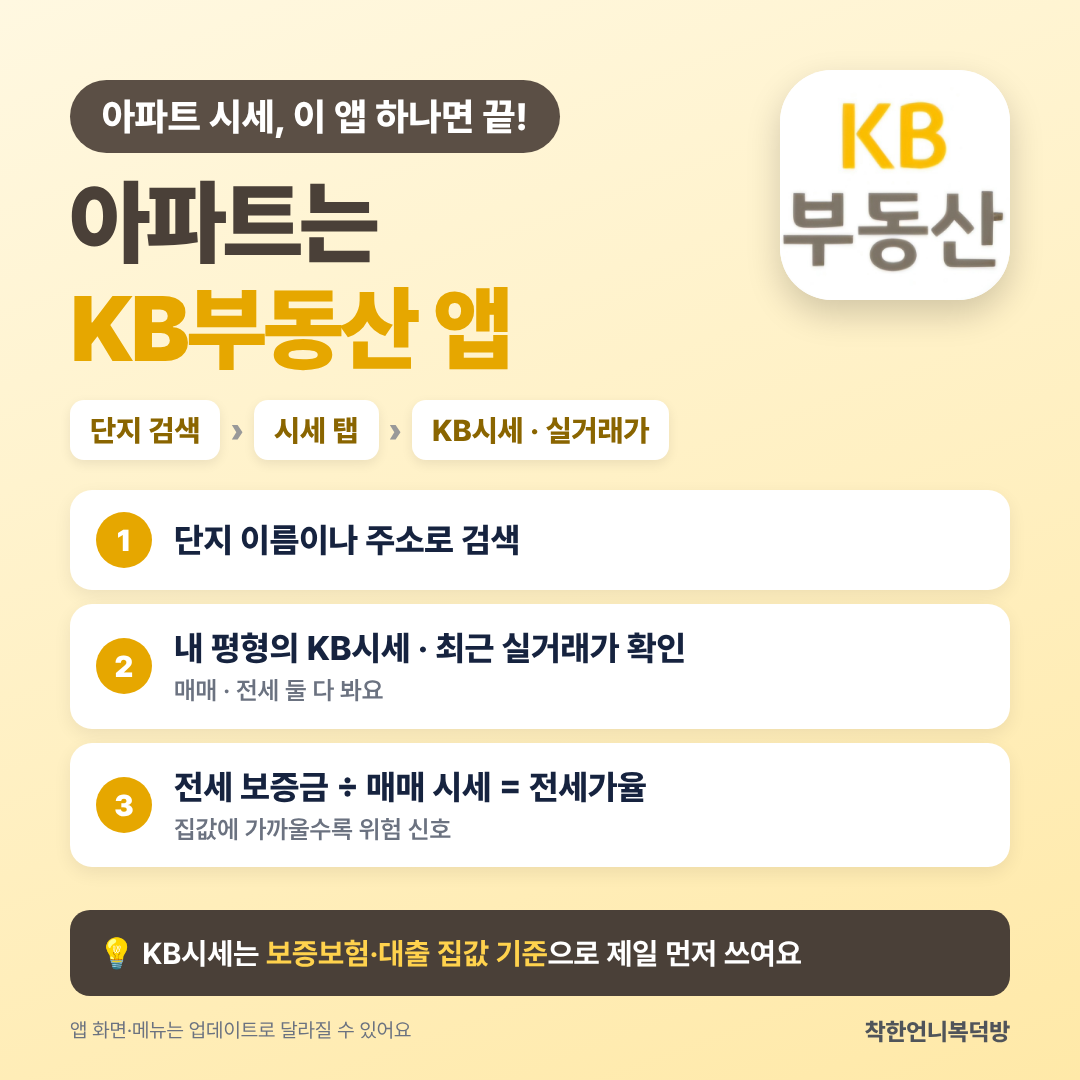
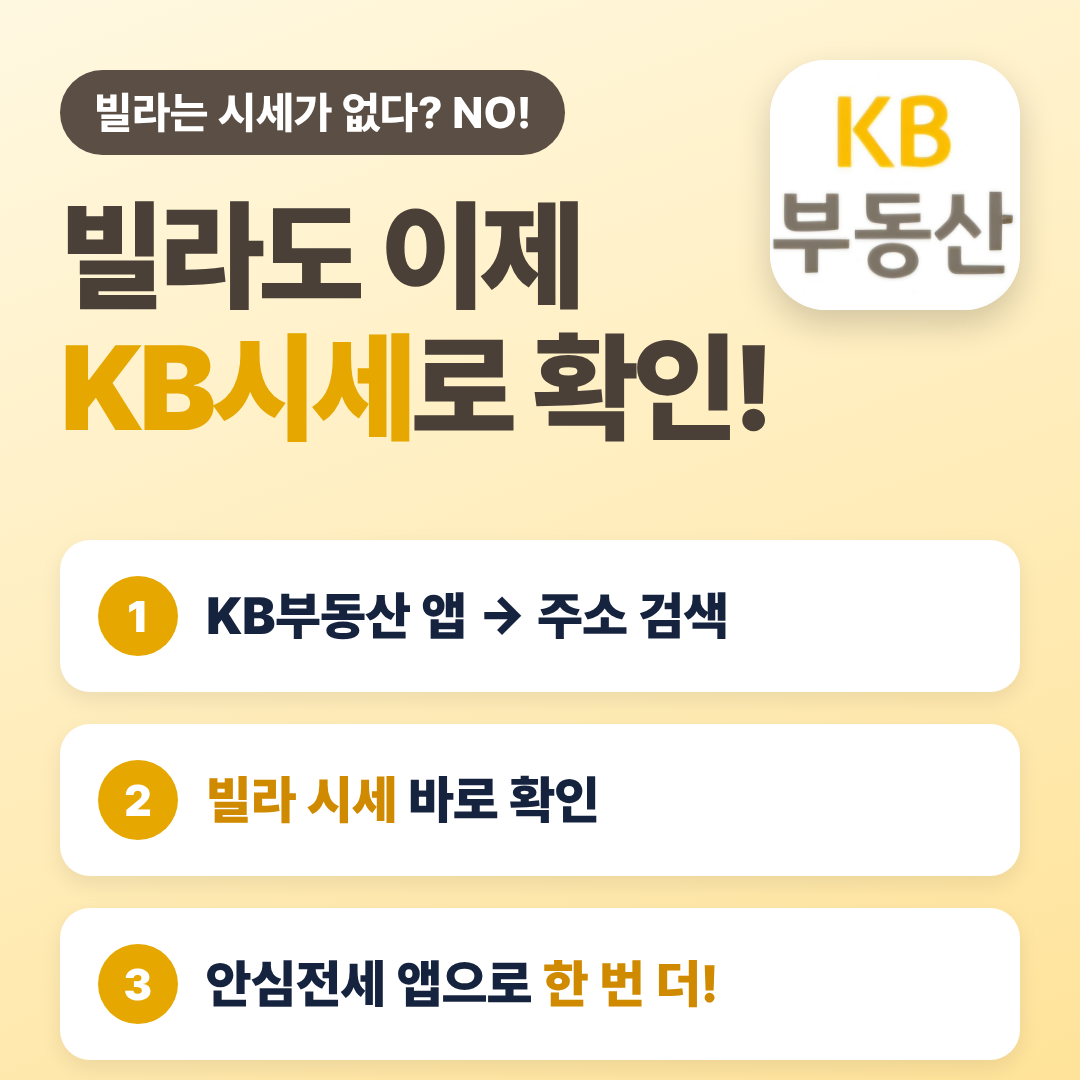
G5 앱 안내: 빌라 KB시세 문구 · 큰 글씨만
Claude-Session: https://claude.ai/code/session_01TVq9M4GpnT2XRseWGn9WC1

diff --git a/instagram/reels/inserts-2026-11-24/photos/G5-info-앱-make.html b/instagram/reels/inserts-2026-11-24/photos/G5-info-앱-make.html
@@ -1,56 +1,38 @@
 <html><head><meta charset="utf-8"><link href="https://cdn.jsdelivr.net/gh/orioncactus/pretendard@v1.3.9/dist/web/static/pretendard.min.css" rel="stylesheet"><style>
 *{margin:0;padding:0;box-sizing:border-box}body{font-family:Pretendard;word-break:keep-all;background:#888}
-.c{width:1080px;height:1080px;position:relative;overflow:hidden;color:#16233f;margin-bottom:10px}
-.kb{background:linear-gradient(160deg,#fff8e1,#ffe9a8)}.hug{background:linear-gradient(160deg,#e3f3ff,#bfe3ff)}
-.icon{position:absolute;right:70px;top:70px;width:230px;height:230px;border-radius:52px;overflow:hidden;box-shadow:0 14px 34px rgba(0,0,0,.18);background:#fff}
+.c{width:1080px;height:1080px;position:relative;overflow:hidden;margin-bottom:10px}
+.kb{background:linear-gradient(160deg,#fff8e1,#ffe39a);color:#4a4038}.hug{background:linear-gradient(160deg,#e3f3ff,#bfe3ff);color:#103e79}
+.icon{position:absolute;right:60px;top:60px;width:250px;height:250px;border-radius:56px;overflow:hidden;box-shadow:0 14px 34px rgba(0,0,0,.18);background:#fff}
 .icon img{width:124%;height:124%;margin:-12%;object-fit:cover}
-.pill{position:absolute;left:70px;top:80px;color:#fff;font-weight:800;font-size:38px;padding:14px 32px;border-radius:50px}
+.pill{position:absolute;left:60px;top:70px;color:#fff;font-weight:800;font-size:44px;padding:16px 34px;border-radius:60px}
 .kb .pill{background:#5b4f45}.hug .pill{background:#103e79}
-h1{position:absolute;left:70px;top:170px;font-size:92px;font-weight:900;line-height:1.15;letter-spacing:-3px}
-.kb h1{color:#4a4038}.hug h1{color:#103e79}
+h1{position:absolute;left:60px;top:190px;font-size:120px;font-weight:900;line-height:1.1;letter-spacing:-4px}
 h1 em{font-style:normal}.kb h1 em{color:#e6a700}.hug h1 em{color:#1d7fd6}
-.path{position:absolute;left:70px;top:400px;display:flex;flex-wrap:wrap;gap:10px;align-items:center;right:70px}
-.chip{background:#fff;font-weight:800;font-size:30px;padding:12px 20px;border-radius:14px;box-shadow:0 4px 12px rgba(0,0,0,.08)}
-.kb .chip{color:#8a6500}.hug .chip{color:#0f5fa8}
-.arr{font-size:34px;font-weight:900;color:#999}
-.steps{position:absolute;left:70px;right:70px;top:490px;display:flex;flex-direction:column;gap:14px}
-.st{background:#fff;border-radius:22px;padding:22px 26px;display:flex;gap:22px;align-items:center;box-shadow:0 6px 18px rgba(0,0,0,.07)}
-.st i{flex:none;font-style:normal;width:56px;height:56px;border-radius:50%;color:#fff;font-weight:900;font-size:30px;display:flex;align-items:center;justify-content:center}
+.steps{position:absolute;left:60px;right:60px;top:540px;display:flex;flex-direction:column;gap:32px}
+.st{background:#fff;border-radius:30px;padding:36px 38px;display:flex;gap:28px;align-items:center;box-shadow:0 8px 22px rgba(0,0,0,.08)}
+.st i{flex:none;font-style:normal;width:80px;height:80px;border-radius:50%;color:#fff;font-weight:900;font-size:44px;display:flex;align-items:center;justify-content:center}
 .kb .st i{background:#e6a700}.hug .st i{background:#1d7fd6}
-.st b{font-size:34px;font-weight:800;line-height:1.3}.st b small{display:block;font-size:25px;font-weight:600;color:#6b7280;margin-top:4px}
-.tip{position:absolute;left:70px;right:70px;bottom:84px;border-radius:20px;padding:22px 28px;font-size:30px;font-weight:700;line-height:1.4}
-.kb .tip{background:#4a4038;color:#fff}.kb .tip em{color:#ffd24d;font-style:normal}
-.hug .tip{background:#103e79;color:#fff}.hug .tip em{color:#ffd84d;font-style:normal}
-.brand{position:absolute;right:70px;bottom:34px;font-size:24px;font-weight:800;opacity:.75}
-.note{position:absolute;left:70px;bottom:38px;font-size:20px;color:#6b7280}
+.st b{font-size:52px;font-weight:900;line-height:1.2;color:#16233f}
+.st b em{font-style:normal}.kb .st b em{color:#d08a00}.hug .st b em{color:#e2560c}
 </style></head><body>
 <div class="c kb" id="kb">
-<div class="pill">아파트 시세, 이 앱 하나면 끝!</div>
+<div class="pill">빌라는 시세가 없다? NO!</div>
 <div class="icon"><img src="app-icon-kb.jpg"></div>
-<h1>아파트는<br><em>KB부동산 앱</em></h1>
-<div class="path"><span class="chip">단지 검색</span><span class="arr">›</span><span class="chip">시세 탭</span><span class="arr">›</span><span class="chip">KB시세 · 실거래가</span></div>
+<h1>빌라도 이제<br><em>KB시세</em>로 확인!</h1>
 <div class="steps">
-<div class="st"><i>1</i><b>단지 이름이나 주소로 검색</b></div>
-<div class="st"><i>2</i><b>내 평형의 KB시세 · 최근 실거래가 확인<small>매매 · 전세 둘 다 봐요</small></b></div>
-<div class="st"><i>3</i><b>전세 보증금 ÷ 매매 시세 = 전세가율<small>집값에 가까울수록 위험 신호</small></b></div>
+<div class="st"><i>1</i><b>KB부동산 앱 → 주소 검색</b></div>
+<div class="st"><i>2</i><b><em>빌라 시세</em> 바로 확인</b></div>
+<div class="st"><i>3</i><b>안심전세 앱으로 <em>한 번 더!</em></b></div>
 </div>
-<div class="tip">💡 KB시세는 <em>보증보험·대출 집값 기준</em>으로 제일 먼저 쓰여요</div>
-<div class="note">앱 화면·메뉴는 업데이트로 달라질 수 있어요</div>
-<div class="brand">착한언니복덕방</div>
 </div>
-
 <div class="c hug" id="hug">
-<div class="pill">KB시세 없는 빌라·오피스텔이라면?</div>
+<div class="pill">KB시세 보고 한 번 더!</div>
 <div class="icon"><img src="app-icon-hug.jpg"></div>
-<h1>빌라는<br><em>안심전세 앱</em></h1>
-<div class="path"><span class="chip">계약 전</span><span class="arr">›</span><span class="chip">시세조회&위험성진단</span><span class="arr">›</span><span class="chip">개별시세</span></div>
+<h1>안심전세 앱<br><em>위험성 진단</em></h1>
 <div class="steps">
-<div class="st"><i>1</i><b>지도에서 집 선택<small>없으면 주소로 검색</small></b></div>
-<div class="st"><i>2</i><b>입주일 · 전세 보증금 넣고 위험성 진단</b></div>
-<div class="st"><i>3</i><b>내 보증금 vs 경매 낙찰 예상금액 비교<small>보증금이 더 높으면 위험 신호</small></b></div>
+<div class="st"><i>1</i><b>시세조회&위험성진단</b></div>
+<div class="st"><i>2</i><b>내 전세 보증금 입력</b></div>
+<div class="st"><i>3</i><b><em>경매 예상가</em>보다 높으면 위험!</b></div>
 </div>
-<div class="tip">💡 같은 앱 <em>안심 조회</em>에서 집주인 보증사고 이력도 조회돼요</div>
-<div class="note">HUG 주택도시보증공사 앱 · 메뉴는 바뀔 수 있어요</div>
-<div class="brand">착한언니복덕방</div>
 </div>
 </body></html>

diff --git a/instagram/reels/inserts-2026-11-24/photos/README.md b/instagram/reels/inserts-2026-11-24/photos/README.md
@@ -18,7 +18,7 @@
 - G5-banner-평일전입신고-가로.jpg: 고수 5번 평일 전입신고·대항력 다음 날 0시 · 새 캐릭터(40대 여성·코랄 블라우스) · AI · 위 알약 문구는 「주말에 하면 처리가 늦어져요!」로 직접 고침
 - G5-info-정부24-전입신고플러스-가로.png: 정부24 「전입신고+」 신청 경로 4단계 (1920×1080 · 사람 얼굴 없음 · 정부24 로고 없음 · 화면은 예시) · 수정은 G5-info-정부24-make.html
 - G5-info-정부24-전입신고플러스-정사각.png: 같은 내용 정사각(1080×1080) · 글씨 크게 (9:16 영상 위에 올리면 가로형은 작아 보여서 · 대표님 11/28)
-- G5-info-KB부동산-정사각.png / G5-info-안심전세-정사각.png: 고수 1번 앱 안내 (1080×1080 · 대표님이 준 앱 아이콘 사용 · 사람 없음) · 수정은 G5-info-앱-make.html
+- G5-info-KB부동산-정사각.png / G5-info-안심전세-정사각.png: 고수 1번 (1080×1080 · 큰 글씨만 · "빌라도 이제 KB시세로 확인!" → 안심전세 위험성 진단 · 대표님이 준 앱 아이콘) · 수정은 G5-info-앱-make.html
 - G5-app-KB부동산-시세.jpg: KB부동산 구글플레이 공식 소개 화면 (KB시세·실거래가) · 1번
 - G5-app-안심전세-메인.jpg: 안심전세 구글플레이 공식 소개 화면 (안심조회·보증가입 메뉴) · 1·2번
 - G5-app-안심전세-집주인변경알림.jpg: 안심전세 "경매 발생 및 집주인 변경 알림" 소개 화면 · 2번 보조
